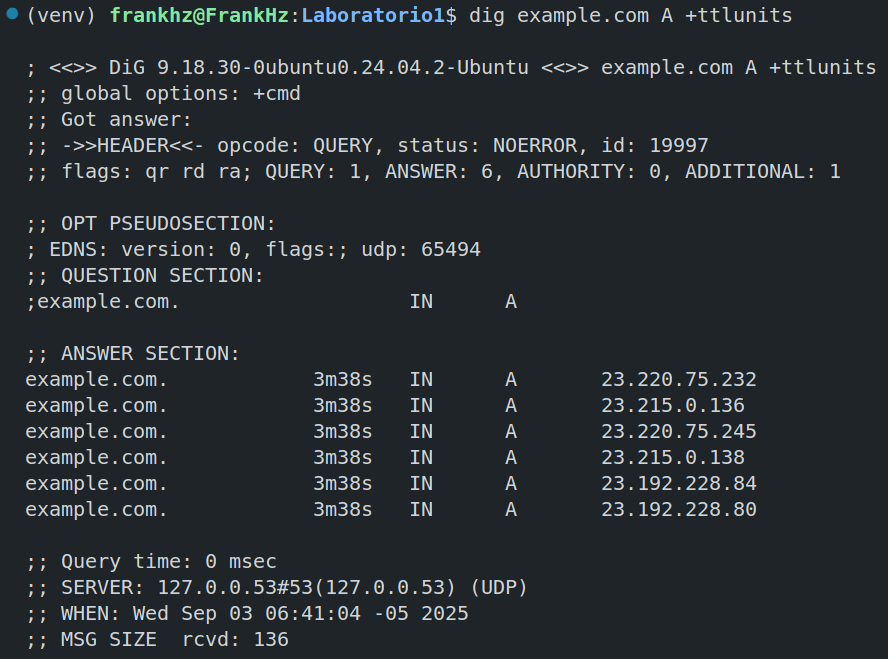
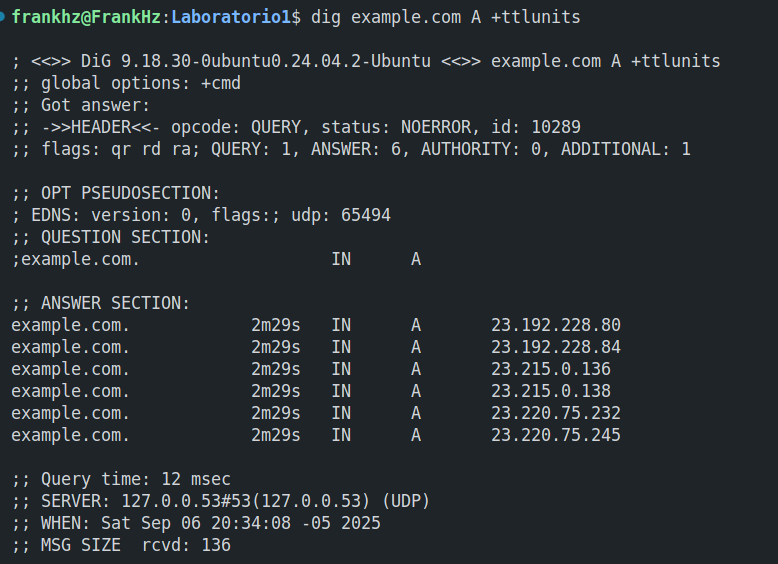
Actividad 2 terminada

diff --git a/Actividades/Actividad_2_CC3S2/REPORT.md b/Actividades/Actividad_2_CC3S2/REPORT.md
@@ -25,7 +25,9 @@
 
     **Comprobamos**
         
-    ![alt text](imagenes/evidencia1_1_2.png)
+    <div style="text-align: center;">
+    <img src="imagenes/evidencia1_1_2.png" alt="Primera Consulta" style="width: 50%; display: block; margin: 0 auto 20px auto;">
+    </div>
 
 
 2. **Inspección con `curl`:**
@@ -80,7 +82,7 @@
     - Simplicidad: La app no necesita configurar rutas, rotación, permisos de archivos
 
 
-#### 2) DNS: nombres, registros y caché
+## 2) DNS: nombres, registros y caché
 
 **Meta:** resolver `miapp.local` y observar TTL/caché.
 
@@ -100,7 +102,14 @@
 
 3. **TTL/caché (conceptual):** con `dig example.com A +ttlunits` explica cómo el TTL afecta respuestas repetidas (no cambies DNS público, solo observa).
 
-    ![alt text](imagenes/evidencia2_3.png)
+    El **TTL** (Time To Live) es un valor en segundos que indica cuánto tiempo puede un resolver DNS mantener una respuesta en caché antes de considerarla expirada.
+
+    <div style="display: flex; justify-content: center; gap: 10px;">
+        <img src="imagenes/evidencia2_3.png" alt="Primera Consulta" width="50%">
+        <img src="imagenes/evidencia2_4.png" alt="Segunda Consulta" width="50%">
+    </div>
+
+    El resolver local (127.0.0.53) cachea la respuesta y va decrementando el TTL cada segundo. Las consultas subsecuentes se sirven desde caché sin necesidad de consultar servidores externos.Las respuestas cacheadas son instantáneas (0 ms) vs consultas externas que toman decenas de milisegundos, para cuando el TTL llegue a 0, el próximo dig forzará una nueva consulta al servidor autoritativo, reiniciando el TTL al valor original.
 
 4. **Pregunta guía:** ¿Qué diferencia hay entre **/etc/hosts** y una zona DNS autoritativa? ¿Por qué el *hosts* sirve para laboratorio?
 
@@ -119,3 +128,293 @@
    - Control total: cambios inmediatos sin esperar propagación
    - Aislamiento: solo afecta el entorno de desarrollo  
    - Perfecto para `miapp.local → 127.0.0.1` en testing local
+
+## 3) TLS: seguridad en tránsito con Nginx como *reverse proxy*
+
+**Meta:** terminar TLS en Nginx `:443` y *proxyear* a Flask en `127.0.0.1:8080`.
+
+1. **Certificado de laboratorio:** genera autofirmado (usa el *target* `make tls-cert` si existe) y coloca crt/key donde lo espera Nginx (ver guía).
+
+    ```bash
+    make tls-cert
+    ```
+
+    <div style="text-align: center;">
+    <img src="imagenes/evidencia3_1_1.png" alt="Primera Consulta" style="width: 80%; display: block; margin: 0 auto 20px auto;">
+    </div>
+
+    Generacion de los certificados `.crt` y `.key`
+
+    <div style="text-align: center;">
+    <img src="imagenes/evidencia3_1_2.png" alt="Primera Consulta" style="width: 50%; display: block; margin: 0 auto 20px auto;">
+    </div>
+
+2. **Configura Nginx:** usa el ejemplo provisto para **terminación TLS** y **proxy\_pass** a `http://127.0.0.1:8080;` con cabeceras `X-Forwarded-*`. Luego `nginx -t` y **reinicia** el servicio.
+   Incluye el *snippet* clave de tu `server` en el reporte.
+
+    *Configuramos Ngnix*
+    ```bash
+    make nginx
+    ```
+    <div style="text-align: center;">
+    <img src="imagenes/evidencia3_2_1.png" alt="Primera Consulta" style="width: 80%; display: block; margin: 0 auto 20px auto;">
+    </div>
+
+    1. Los certificados se copian a miapp
+    <div style="text-align: center;">
+    <img src="imagenes/evidencia3_2_3.png" alt="Primera Consulta" style="width: 50%; display: block; margin: 0 auto 20px auto;">
+    </div>
+
+    2. Se instala la configuración de Nginx (miapp.conf)
+    3. Nginx se configura como reverse proxy
+
+    *Abrimos el puerto*
+    ```bash
+    sudo ufw allow 443/tcp
+    ```
+    <div style="text-align: center;">
+    <img src="imagenes/evidencia3_2_2.png" alt="Primera Consulta" style="width: 80%; display: block; margin: 0 auto 20px auto;">
+    </div>
+
+    **Flujo de una petición:**
+
+    1. Cliente hace petición HTTPS a https://miapp.local:443
+    2. Nginx recibe la conexión en puerto 443:
+        - Maneja el handshake TLS usando los certificados
+        - Descifra la petición HTTPS
+    3. Nginx reenvía la petición como HTTP simple a 127.0.0.1:8080
+    4. Flask recibe la petición HTTP en puerto 8080:
+        - Procesa la petición
+        - Responde con HTTP
+    5. Nginx recibe la respuesta HTTP de Flask:
+        - La cifra con TLS
+        - La envía de vuelta al cliente como HTTPS
+
+3. **Valida el *handshake*:**
+
+    `openssl s_client -connect miapp.local:443 -servername miapp.local -brief` (muestra TLSv1.2/1.3, cadena, SNI).
+
+    ```bash
+    openssl s_client -connect miapp.local:443 -servername miapp.local -brief
+    ```
+    Establece una conexión TLS directa y muestra información detallada del handshake
+
+    <div style="text-align: center;">
+    <img src="imagenes/evidencia3_3_1.png" alt="Primera Consulta" style="width: 80%; display: block; margin: 0 auto 20px auto;">
+    </div>
+
+   `curl -k https://miapp.local/` (explica el uso de `-k` con certificados autofirmados).
+
+    ```bash
+    curl -k https://miapp.local/
+    ```
+    
+    Hace una petición HTTPS completa a la aplicación
+    - `-k` o `--insecure`: Ignora errores de verificación de certificados SSL
+
+    <div style="text-align: center;">
+    <img src="imagenes/evidencia3_3_2.png" alt="Primera Consulta" style="width: 80%; display: block; margin: 0 auto 20px auto;">
+    </div>
+
+    **¿Por qué usar -k con certificados autofirmados?**, los certificados autofirmados **NO** están firmados por una Autoridad Certificadora (CA) reconocida. Sin -k, curl fallara
+
+    <div style="text-align: center;">
+    <img src="imagenes/evidencia3_3_3.png" alt="Primera Consulta" style="width: 80%; display: block; margin: 0 auto 20px auto;">
+    </div>
+
+    **Diferencia entre `openssl s_client` y `curl -k`**
+
+    | Aspecto      | openssl s_client            | curl -k                         |
+    |--------------|-----------------------------|---------------------------------|
+    | Propósito    | Verificar handshake TLS      | Petición HTTP completa           |
+    | Información  | Detalles de cifrado/certificado | Respuesta de aplicación      |
+    | Nivel        | Protocolo TLS                | Protocolo HTTP sobre TLS         |
+    | Uso          | Diagnóstico de conexión      | Validación end-to-end            |
+
+
+5. **Puertos y logs:**
+
+   `ss -ltnp | grep -E ':(443|8080)'` (evidencia de ambos sockets).
+
+    ```bash
+    ss -ltnp | grep -E ':(443|8080)'
+    ```
+
+    Verifica que tanto Nginx como Flask están escuchando en sus puertos respectivos
+
+    <div style="text-align: center;">
+    <img src="imagenes/evidencia3_4_1.png" alt="Primera Consulta" style="width: 80%; display: block; margin: 0 auto 20px auto;">
+    </div>
+
+    - **Valida la arquitectura :** Nginx publico (443) + Flask interno (8080)
+    - **Seguridad :** Flask no esta expuesto externamente
+    - **Diagnostico :** Si algun puerto no aparece, sabremos que servicio tiene problemas
+
+    `journalctl -u nginx -n 50 --no-pager` **o** `tail -n 50 /var/log/nginx/error.log` (pega 3–5 líneas relevantes).
+
+    ```bash
+    journalctl -u nginx --no-pager -n 100
+    ```
+
+    Nos muestra los logs específicos del servicio nginxs
+
+    <div style="text-align: center;">
+    <img src="imagenes/evidencia3_4_2.png" alt="Primera Consulta" style="width: 90%; display: block; margin: 0 auto 20px auto;">
+    </div>
+
+    ```bash
+    tail -n 50 /var/log/nginx/error.log
+    ```
+
+    Nos muestra las ultimas líneas de un archivo, en este caso `-n 50` que especifica mostrar las últimas 50 líneas de la ruta del archivo de logs de errores de Nginx
+
+    Tipos de logs de Ngnix
+    - Error Log
+    - Access Log
+
+    <div style="text-align: center;">
+    <img src="imagenes/evidencia3_4_3.png" alt="Primera Consulta" style="width: 90%; display: block; margin: 0 auto 20px auto;">
+    </div>
+
+
+> Nota: el *vínculo*  Nginx->Flask es **HTTP interno** en `127.0.0.1:8080`, tu cliente entra por **HTTPS** en `:443`.
+
+## 4) 12-Factor App: port binding, configuración y logs
+
+**Meta:** demostrar tres principios clave en tu app.
+
+1. **Port binding:** muestra que la app **escucha** en el puerto indicado por `PORT` (evidencia `ss`).
+
+    ```bash
+    ss -ltnp | grep :8080
+    ```
+
+    <div style="text-align: center;">
+    <img src="imagenes/evidencia4_1.png" alt="Primera Consulta" style="width: 90%; display: block; margin: 0 auto 20px auto;">
+    </div>
+
+    La aplicacion está correctamente enlazada (bind) al puerto 8080. El proceso Python (PID 37065) está escuchando exclusivamente en localhost:8080, lo que demuestra el principio de port binding de 12-Factor.
+
+2. **Config por entorno:** ejecuta dos veces con distintos `MESSAGE`/`RELEASE` y documenta el efecto en la respuesta JSON.
+
+    **Primera ejecución**
+    ```bash
+    PORT=8080 MESSAGE="CC" RELEASE="v1" python3 app.py
+    ```
+
+    <div style="text-align: center;">
+    <img src="imagenes/evidencia4_2_1.png" alt="Primera Consulta" style="width: 90%; display: block; margin: 0 auto 20px auto;">
+    </div>
+
+    **Segunda ejecución**
+    ```bash
+    PORT=8080 MESSAGE="Desarrollo Software" RELEASE="v2025-2" python3 app.py
+    ```
+
+    <div style="text-align: center;">
+    <img src="imagenes/evidencia4_2_2.png" alt="Primera Consulta" style="width: 90%; display: block; margin: 0 auto 20px auto;">
+    </div>
+
+
+    Los campos `message` y `release` cambian dinamicamente segun las variables de entorno sin necesidad de modificar el codigo fuente lo que demuestra el principio de configuracion por entorno de 12-Factor, donde la configuracion se **separa** completamente del código.
+
+3. **Logs a stdout:** redirige a archivo mediante *pipeline* de shell y adjunta 5 líneas representativas. Explica por qué **no** se configura *log file* en la app.
+
+    **Rediriguiendo los logs de la aplicacion a un archivo usando pipeline de shell**
+    ```bash
+    PORT=8080 MESSAGE="Logs" RELEASE="v1" python3 app.py 2>&1 | tee app_logs.txt
+    ```
+
+    <div style="text-align: center;">
+    <img src="imagenes/evidencia4_3_1.png" alt="Primera Consulta" style="width: 90%; display: block; margin: 0 auto 20px auto;">
+    </div>
+
+    **Lineas representativas de logs capturadas por el archivo app_log.txt**
+    
+    <div style="text-align: center;">
+    <img src="imagenes/evidencia4_3_2.png" alt="Primera Consulta" style="width: 90%; display: block; margin: 0 auto 20px auto;">
+    </div>
+
+    **Razones fundamentales del principio 12-Factor por la cual no debemos configurar log file en la app**
+
+    - **Separación de responsabilidades,** la aplicacion se enfoca en **generar logs**, **no en gestionarlos**. El sistema operativo o herramientas externas se encargan del almacenamiento.
+
+    - **Flexibilidad de despliegue,** en contenedores Docker, los logs van a stdout/stderr y pueden ser redirigidos a diferentes destinos (archivos, sistemas centralizados, etc.) sin cambiar la aplicación.
+
+## 5) Operación reproducible (Make/WSL/Linux)
+
+**Meta:** empaquetar tu flujo en `make` o scripts para repetirlo en otra máquina.
+
+* Sigue la guía paso a paso (Linux/WSL) y **documenta divergencias** (p.ej. `systemctl` vs `service` en WSL, *hosts* de Windows vs WSL).
+  Incluye una tabla "Comando -> Resultado esperado".
+* Si tienes *targets* como `make prepare`, `make run`, `make nginx`, `make check-http`, `make check-tls`, `make dns-demo`, úsalos y pega su salida resumida.
+
+#### Mejora incremental 
+
+* **Logs estructurados** (JSON por línea) en stdout. Muestra un ejemplo y por qué facilita *parsing*.
+* **Script `make`** que haga *end-to-end*: preparar venv -> levantar app -> cert TLS -> Nginx -> chequeos `curl/dig/ss`.;
+* **`systemd`** (si aplica): define unidad para la app y valida con `systemctl status` y `journalctl -u`. (Adjunta *snippet* clave y evidencia).
+
+**Tabla de Comandos Make → Resultado Esperado**
+
+| **Comando** | **Resultado Esperado** | **Descripción** |
+|-------------|------------------------|-----------------|
+| `make help` | Lista de targets disponibles con descripciones | Muestra todos los comandos make disponibles |
+| `make debug-venv` | Variables de entorno y rutas del venv detectadas | Diagnóstico de configuración del entorno virtual |
+| `make prepare` | Venv 'bdd' creado e instalación de Flask | Crea entorno virtual y instala dependencias |
+| `make hosts-setup` | `127.0.0.1 miapp.local` agregado a hosts | Configura resolución DNS local |
+| `make run` | App Flask ejecutándose en `http://127.0.0.1:8080` | Inicia la aplicación en primer plano |
+| `make check-http` | Respuesta JSON + evidencia de socket en puerto 8080 | Verifica que la app HTTP esté funcionando |
+| `make tls-cert` | Certificados creados en directorio certs | Genera certificados SSL autofirmados |
+| `make nginx` | Nginx configurado y recargado + mensaje de éxito | Instala configuración de reverse proxy TLS |
+| `make ufw-open` | Puertos 80/443 abiertos en firewall | Abre puertos necesarios para HTTPS |
+| `make check-tls` | Handshake TLS exitoso + respuesta HTTPS | Valida conexión SSL y proxy reverso |
+| `make dns-demo` | Consultas DNS variadas con TTL visible | Demuestra tipos de registros DNS |
+| `make systemd-install` | Servicio systemd habilitado y ejecutándose | Instala la app como servicio del sistema |
+| `make cleanup` | Servicios detenidos, configuraciones removidas | Limpia la instalación conservando certificados |
+
+
+**Comandos de Diagnóstico**
+| **Comando Manual** | **Resultado Esperado** |
+|-------------------|------------------------|
+| `ss -ltnp \| grep -E ':(443\|8080)'` | Nginx en 443 + Flask en 8080 |
+| `curl -k https://miapp.local/` | Respuesta JSON via HTTPS |
+| `dig +short miapp.local` | `127.0.0.1` |
+| `getent hosts miapp.local` | `127.0.0.1 miapp.local` |
+
+
+**Preguntas guía (responde en `Reporte.md`)**
+
+1. **HTTP:** explica **idempotencia** de métodos y su impacto en *retries*/*health checks*. Da un ejemplo con `curl -X PUT` vs `POST`.
+
+    Un método HTTP se considera idempotente si ejecutarlo múltiples veces con los mismos parámetros produce el mismo resultado que ejecutarlo una sola vez.
+
+    - Métodos idempotentes
+        * `GET`: Obteniene datos sin modificar el estado
+        * `PUT`: Crea/actualiza un recurso con el mismo resultado
+        * `DELETE`: Elimina (si ya está eliminado, no cambia nada)
+    - Métodos **NO** idempotentes
+        * `POST`: Se usa para crear un nuevo recurso. Cada vez que envías la misma solicitud POST, el servidor creará un nuevo recurso lo que puede resultar en duplicados no deseados.
+
+2. **DNS:** ¿por qué `hosts` es útil para laboratorio pero no para producción? ¿Cómo influye el **TTL** en latencia y uso de caché?;
+
+    Es util para laboratorio porque nos da **control total, simplicidad, ailamiento, rapidez**. Mientras que en produccion no sirve debido a que **no escala, la gestion es manual, sin distribuccion.**
+
+    El TTL determina la duración del caché, tenemos :
+    - **TTL alto**, promueve un uso intensivo de la caché. Con un TTL alto, no necesita volver a consultar al servidor DNS autoritativo durante mucho tiempo.
+    - **TTL bajo**, limita el uso de la caché. El registro expira rápidamente, lo que obliga a los clientes a obtener la información más reciente. Esto es ideal para servicios que requieren cambios frecuentes o una alta disponibilidad.
+
+3. **TLS:** ¿qué rol cumple **SNI** en el *handshake* y cómo lo demostraste con `openssl s_client`?
+
+    El SNI (Indicación del Nombre del Servidor) es una extensión de TLS que permite a un cliente especificar el nombre del host al que desea conectarse durante el handshake, permite que un solo servidor con una única dirección IP aloje múltiples sitios web seguros.
+
+
+4. **12-Factor:** ¿por qué **logs a stdout** y **config por entorno** simplifican contenedores y CI/CD?;
+
+    - **Logs a stdout**, simplifica los contenedores al usar stdout, la aplicacion se vuelve "agnóstica" al sistema de logs, ya que el contenedor se encarga de todo lo demás: capturar, almacenar y reenviar los logs a un sistema centralizado
+
+    - **Configuración por entorno**, simplifica `CI/CD` pues permite que un solo artefacto de construcción como una imagen `Docker` se pueda desplegar en múltiples entornos (desarrollo, pruebas, producción) sin cambios en el código.
+
+5. **Operación:** ¿qué muestra `ss -ltnp` que no ves con `curl`? ¿Cómo triangulas problemas con `journalctl`/logs de Nginx?;
+
+    El comando `ss -ltnp` muestra los sockets activos en el sistema operativo, revelando que proceso está escuchando en qué puerto y su estado (LISTEN). Esta información a nivel de sistema no es visible con curl, que es solo una herramienta de cliente que intenta conectarse a una URL.
